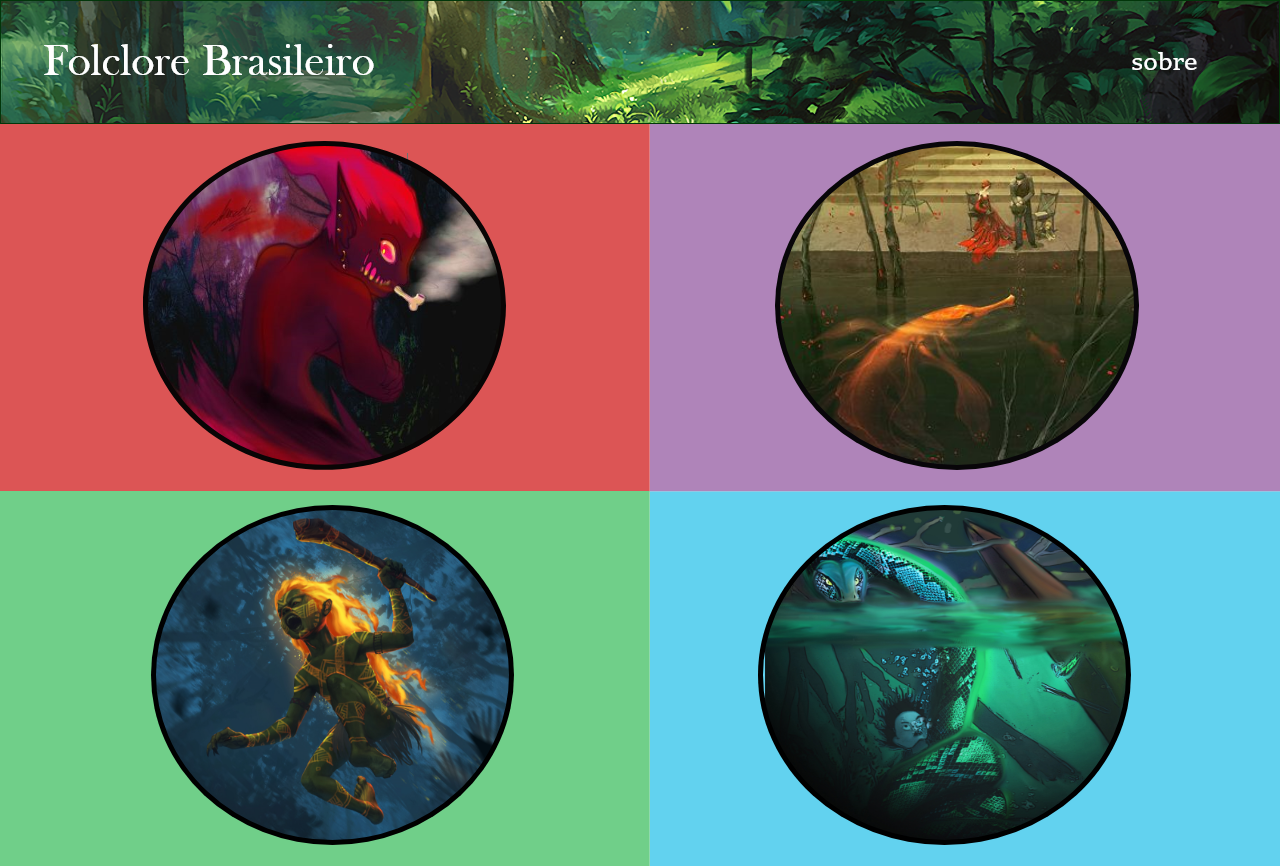
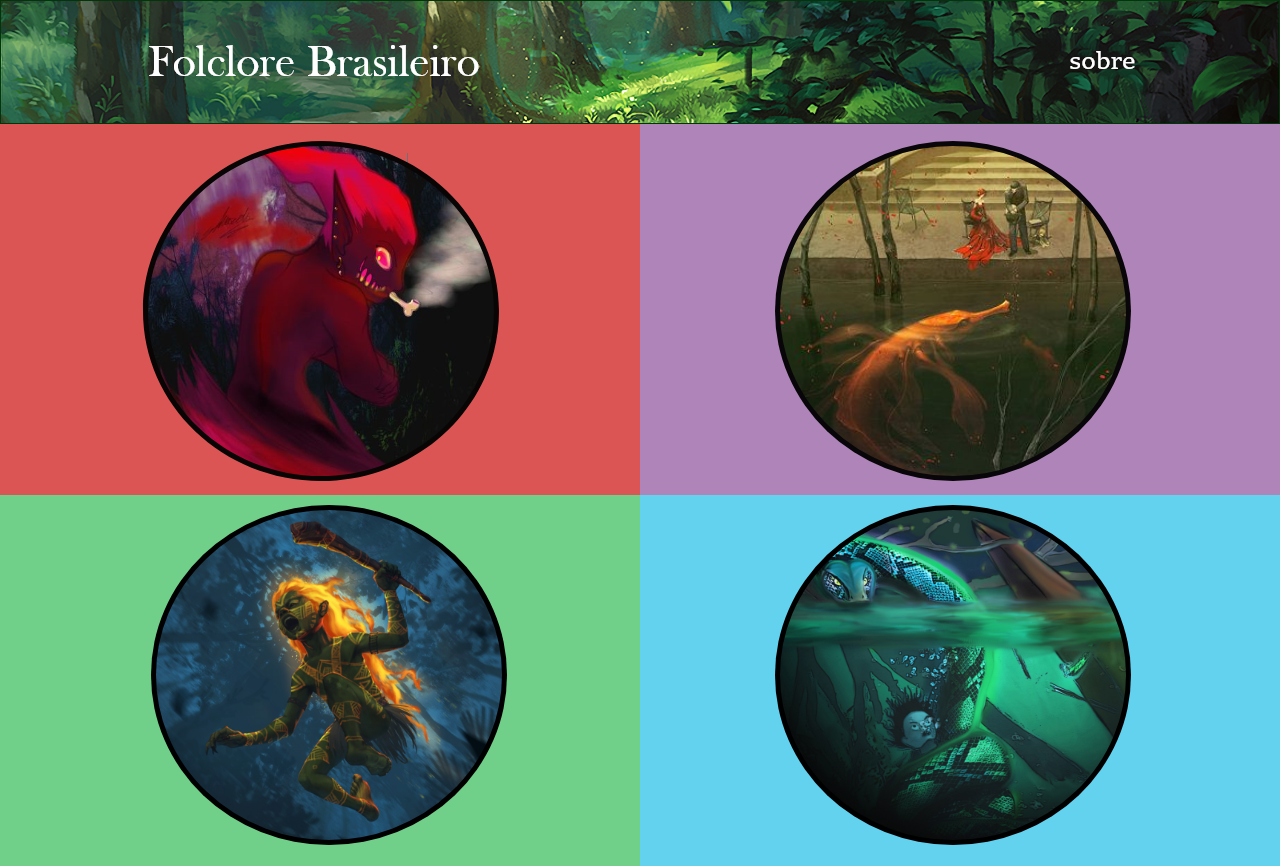
Atualizando arquivos

diff --git a/css/style.css b/css/style.css
@@ -1,6 +1,8 @@
 body {
-    margin: 8px;
-    padding: 8px;
+    width: 1280;
+    height: 940;
+    margin: 0px;
+    padding: 0px;
     
     
     
@@ -13,6 +15,8 @@ a {
 }
 
 .hdr {
+    width: 1280;
+    height: 124;
      display: flex;
      justify-content: space-between;
      padding: 20px;
@@ -34,20 +38,19 @@ a {
     
 }
 /*conteúdo*/
-.content {
-    display: grid;
-    grid-template-columns: "img img" "img2 img2";
-    grid-template-rows: 29px 29px 29px 29px;
+.content1 {
+    display: flex;
+    flex-direction: row;
     background-color: darkslategrey;
-    
-    
-    
-    
+}
+.content2 {
+    display: flex;
+    background-color: darkslategrey;
 }
 /*rodapé*/
 footer{
     display: flex;
-    background-image: url("/Imagens/floresta.png");
+    background-image: url("../Imagens/logo.png");
     background-color: darkseagreen;
     
 }

diff --git a/index.html b/index.html
@@ -12,10 +12,13 @@
         
     </header>
     
-    <div class="content">
-
-         <p>iamgrnssss</p>
-    
+    <div class="content1">
+       <img src="Imagens/saci.jpg"alt="Saci" width="640" height="371">
+       <img src="Imagens/boto.jpg"alt="boto" width="640" height="371">
+    </div>
+    <div class="content2">
+       <img src="Imagens/kurupira.jpg"alt="kurupira" width="640" height="371">
+       <img src="Imagens/Boitatá.jpg" alt="Boitatá" width="640" height="371">
     </div>
     
     <footer>
